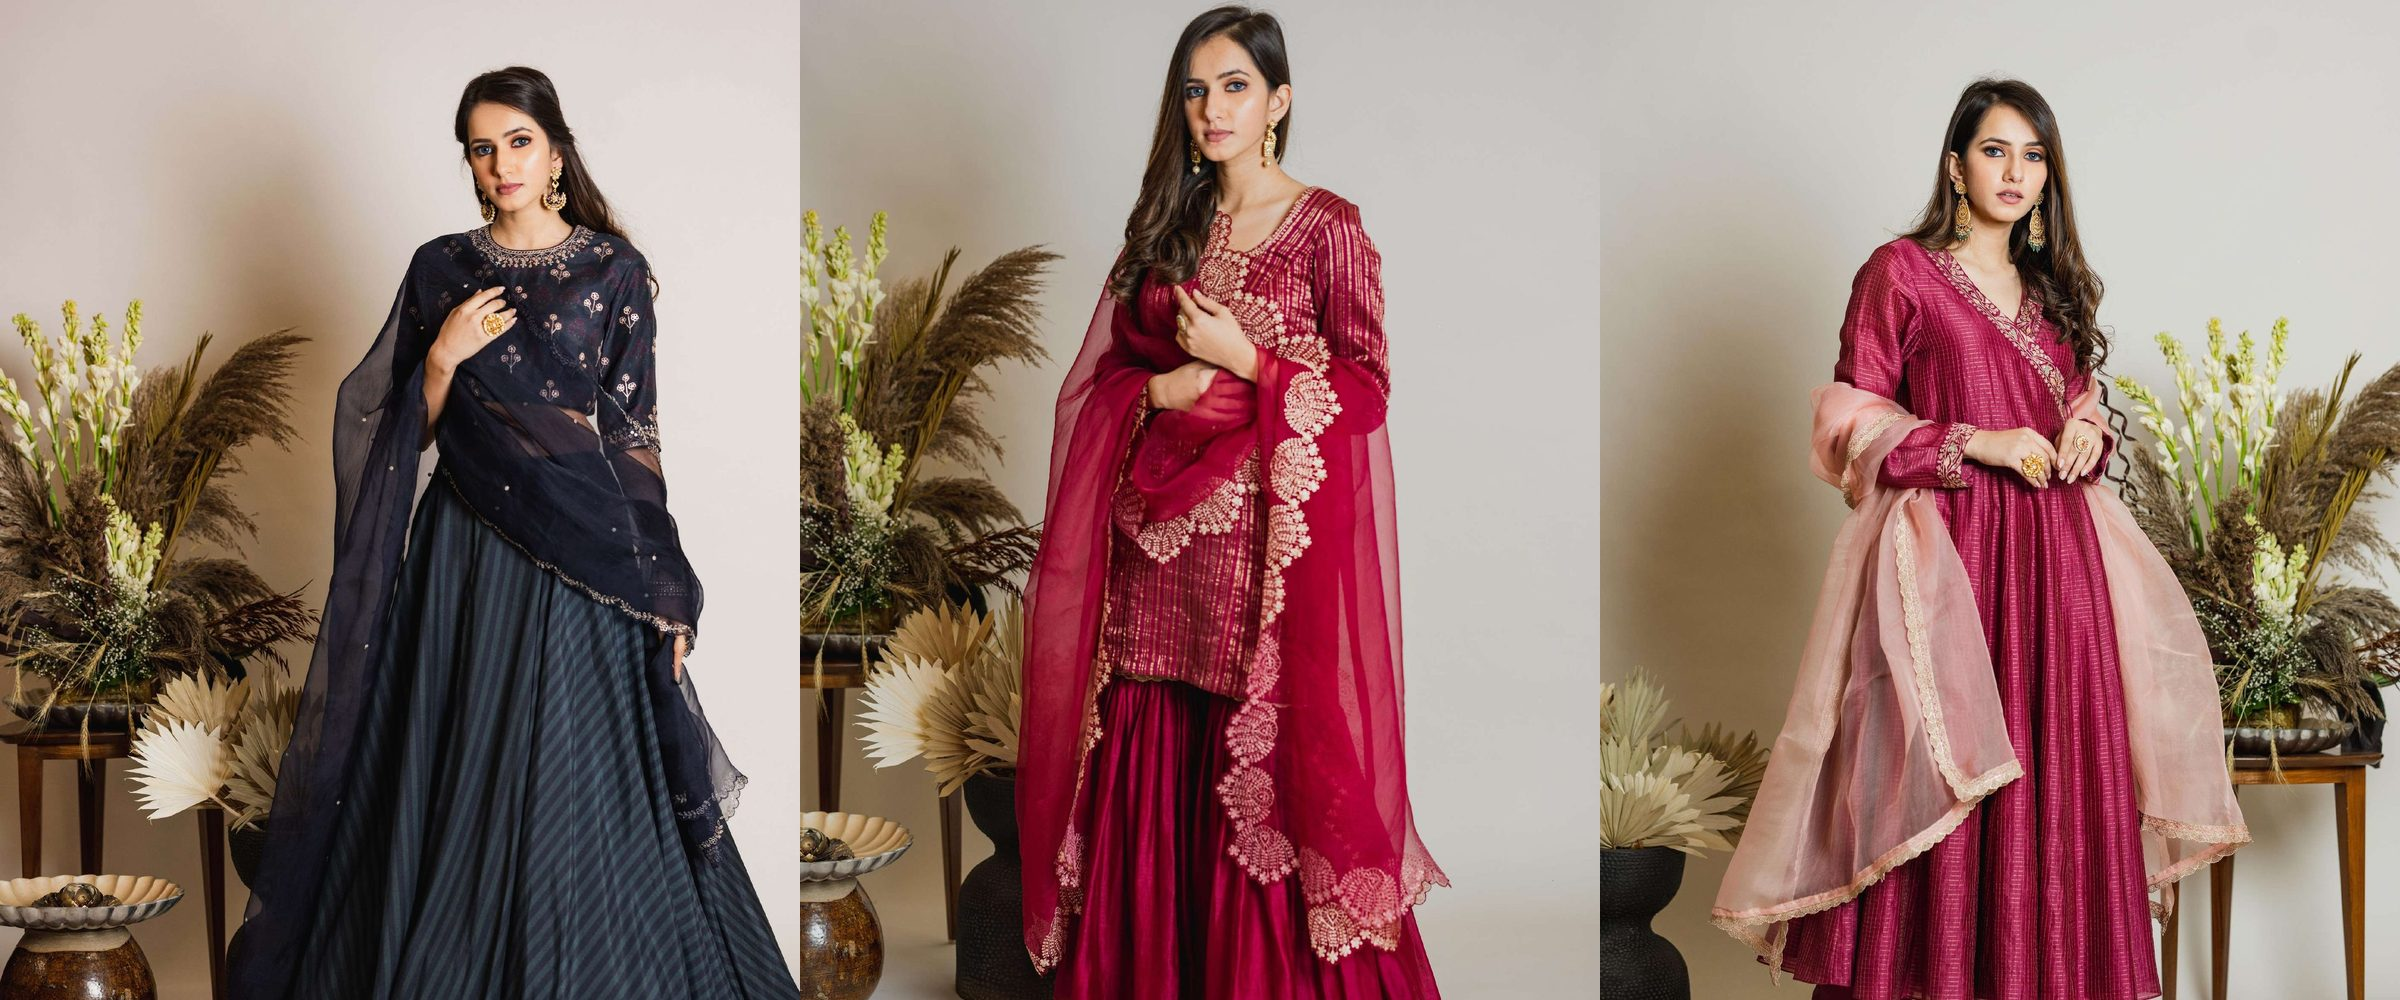
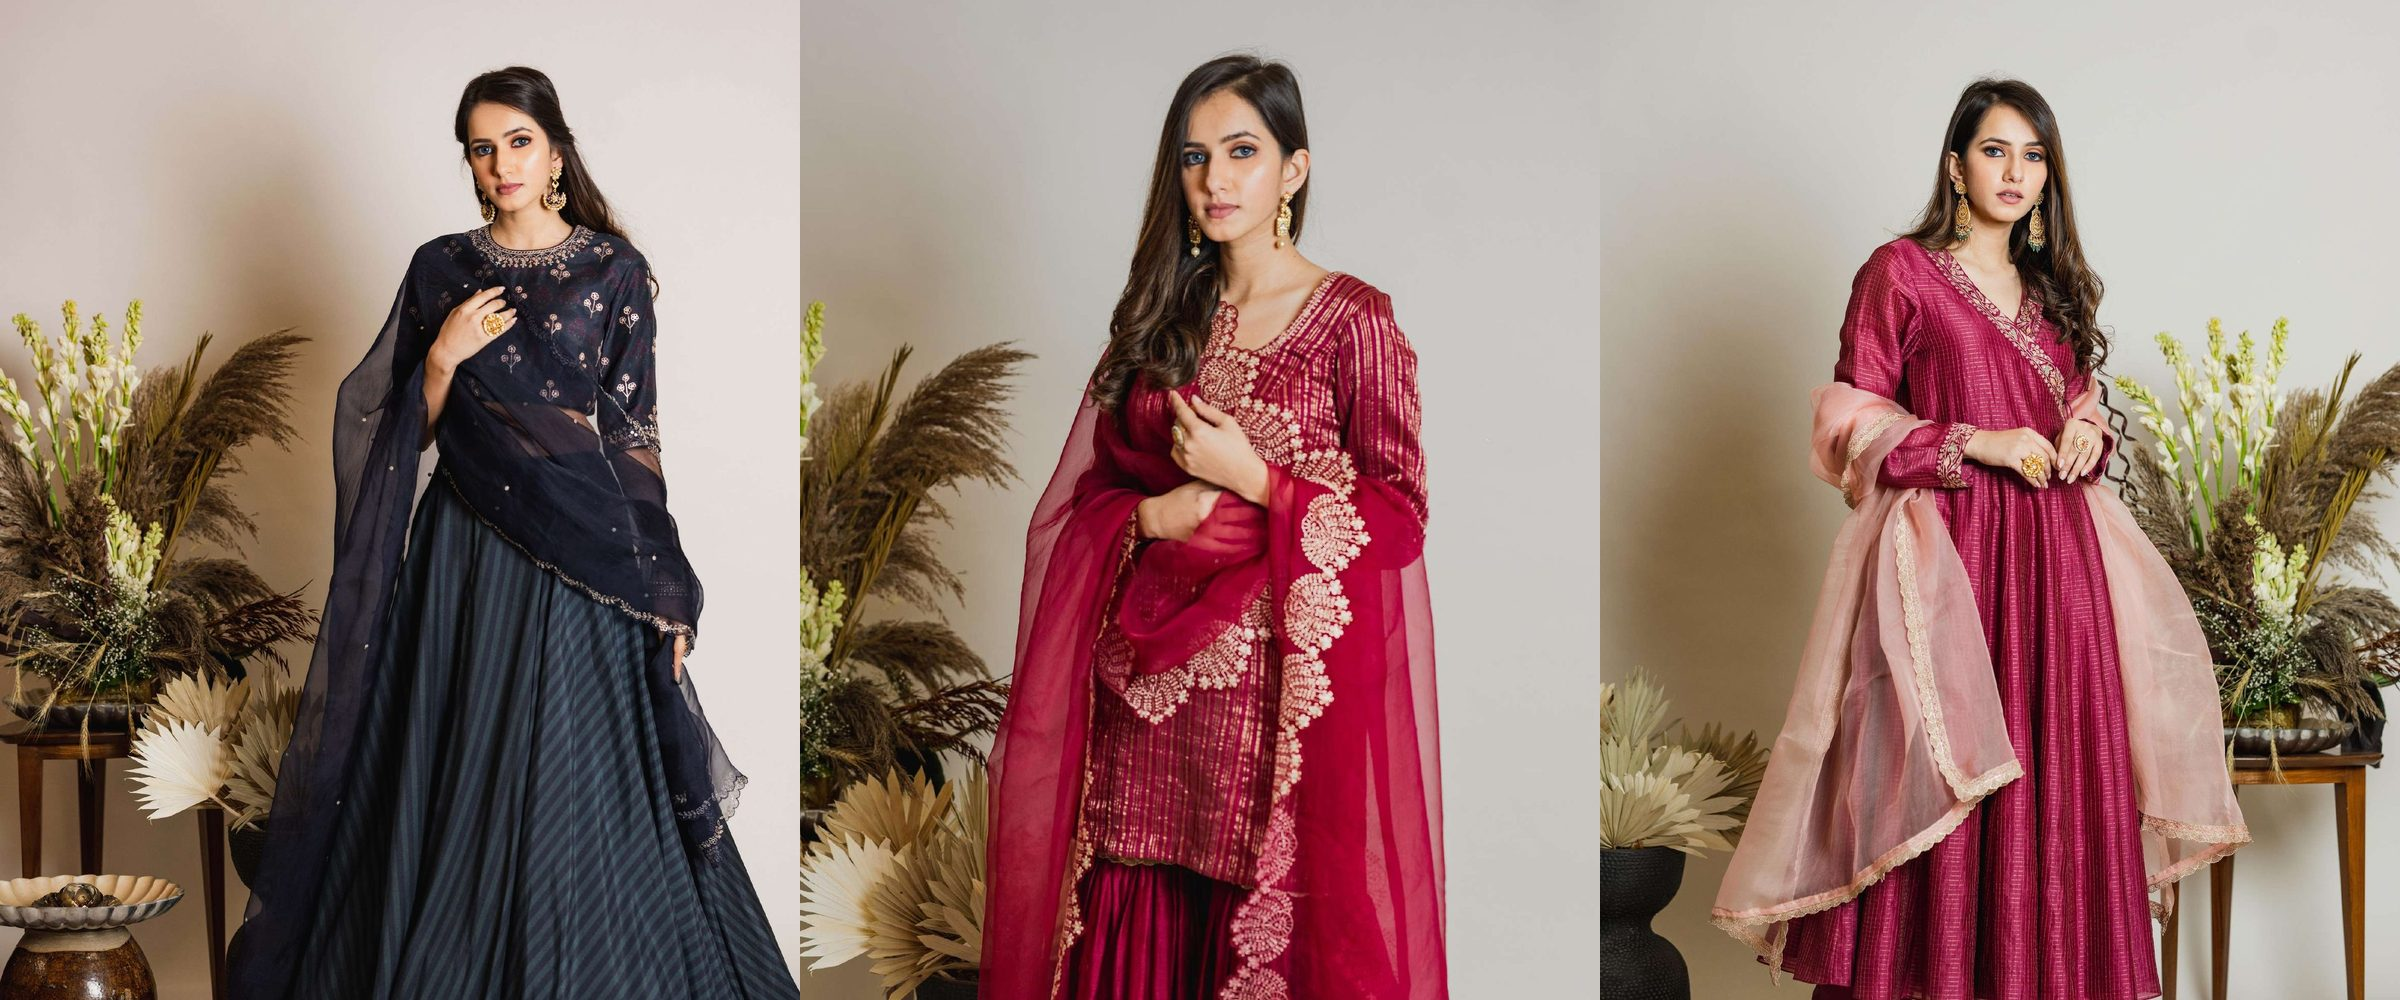
image fix

Changed region(s): [[0.3125, 0.0, 0.6875, 1.0]]

diff --git a/src/components/ui/Icons.tsx b/src/components/ui/Icons.tsx
@@ -45,16 +45,19 @@ export function ArrowDownIcon({ className = "" }: IconProps) {
   );
 }
 
-export function LongArrowRightIcon({ className = "" }: IconProps) {
+/** `bold`: thicker stroke for a hero's button (see .Svg--bold in section-collection-showcase.css). */
+export function LongArrowRightIcon({ className = "", bold = false }: IconProps & { bold?: boolean }) {
   return (
-    <svg className={`Svg Svg--long-arrow-right ${className}`} {...base}>
+    <svg className={`Svg Svg--long-arrow-right ${bold ? "Svg--bold" : ""} ${className}`} {...base}>
       <path
         d="M15 8.89V9.54039H2.32519C2.14559 9.54039 2 9.39479 2 9.21519C2 9.03559 2.14559 8.89 2.3252 8.89H15Z"
         fill="#231F20"
+        strokeWidth={bold ? 0.75 : undefined}
       />
       <path
         d="M15.2295 9L15.46 9.22949L15.2295 9.45898L11.459 13.2295C11.3322 13.3562 11.1267 13.3562 11 13.2295C10.8733 13.1027 10.8733 12.8972 11 12.7705L14.541 9.22949L11 5.68847C10.8733 5.56173 10.8733 5.35623 11 5.22949C11.1267 5.10274 11.3322 5.10274 11.459 5.22949L15.2295 9Z"
         fill="#231F20"
+        strokeWidth={bold ? 0.75 : undefined}
       />
     </svg>
   );

diff --git a/src/data/navigation.ts b/src/data/navigation.ts
@@ -45,10 +45,10 @@ export const navigation: TopMenu[] = [
       link("Offer: Made by Maliha", col("made-by-maliha")),
     ],
     rootCards: [
-      card("Made by Maliha - The Festive Edit", col("festive-edit"), women("nav-festive-edit")),
+      card("Made by Maliha, The Festive Edit", col("festive-edit"), women("nav-festive-edit")),
       card("New Arrivals", col("new-arrivals"), women("nav-new-arrivals")),
     ],
-    mobileRootCards: [card("Made by Maliha - The Festive Edit", col("festive-edit"), women("nav-festive-edit"))],
+    mobileRootCards: [card("Made by Maliha, The Festive Edit", col("festive-edit"), women("nav-festive-edit"))],
     second: [
       {
         key: "women-clothing",

diff --git a/src/app/women/page.tsx b/src/app/women/page.tsx
@@ -34,6 +34,7 @@ export default function WomenPage() {
       <CollectionShowcase
         heading
         priority
+        largeButton
         ratio={{ m: "4/5", d: "24/10" }}
         alignment="middleCenter"
         items={[
@@ -42,7 +43,7 @@ export default function WomenPage() {
             mobileImage: women("hero-mobile"),
             focus: "50% 30%",
             href: "/collections/festive-edit",
-            title: "Made by Maliha - The Festive Edit",
+            title: "Made by Maliha, The Festive Edit",
             button: "SHOP NOW",
           },
         ]}

diff --git a/src/styles/theme/section-collection-showcase.css b/src/styles/theme/section-collection-showcase.css
@@ -6,3 +6,7 @@
 .collection-showcase__button-wrapper--large .ButtonTextContainer,.collection-showcase__button-wrapper--large .ButtonText{height:1.5rem}
 .collection-showcase__button-wrapper--large .button-txt{font-size:1.125rem;line-height:1.5rem}
 .collection-showcase__button-wrapper--large svg{height:1.375rem;width:1.375rem}
+
+/* Bolder arrow icon for a hero's button (see LongArrowRightIcon's `bold` prop).
+   currentColor inherits the button text's colour, whichever variant it is. */
+svg.Svg--bold path{stroke:currentColor}

diff --git a/src/components/CollectionShowcase.tsx b/src/components/CollectionShowcase.tsx
@@ -149,7 +149,7 @@ export function CollectionShowcase({
                         <div className="ButtonTextContainer">
                           <span className="ButtonText ">
                             <span className="button-txt u-pb1">{item.button}</span>
-                            <LongArrowRightIcon />
+                            <LongArrowRightIcon bold={priority} />
                           </span>
                         </div>
                       </Link>

diff --git a/src/app/lookbook/page.tsx b/src/app/lookbook/page.tsx
@@ -32,6 +32,7 @@ export default function LookbookPage() {
       <CollectionShowcase
         heading
         priority
+        largeButton
         ratio={{ m: "4/5", d: "24/10" }}
         alignment="middleCenter"
         items={[

diff --git a/scripts/prepare-assets.py b/scripts/prepare-assets.py
@@ -87,24 +87,37 @@ def save_logo(fallback: Image.Image) -> None:
     img.crop((max(0, left - pad), max(0, top - pad), right + pad, bottom + pad)).save(PUBLIC / "logo-maliha.png", optimize=True)
 
 
-def cover(img: Image.Image, w: int, h: int, focus_y: float = 0.5) -> Image.Image:
-    """Resize + crop to exactly w×h (like CSS object-fit: cover)."""
-    scale = max(w / img.width, h / img.height)
+def cover(img: Image.Image, w: int, h: int, focus_y: float = 0.5, zoom: float = 1.0) -> Image.Image:
+    """Resize + crop to exactly w×h (like CSS object-fit: cover). `zoom` scales
+    beyond the minimum cover-fit, so `focus_y` has room to crop in tighter at
+    the top/bottom than the photo's own edges allow at zoom=1."""
+    scale = max(w / img.width, h / img.height) * zoom
     resized = img.resize((round(img.width * scale), round(img.height * scale)), Image.LANCZOS)
     left = (resized.width - w) // 2
     top = round((resized.height - h) * focus_y)
     return resized.crop((left, top, left + w, top + h))
 
 
-def triptych(paths: list[Path], w: int, h: int, focus_y: float, trim_left: list[float] | None = None) -> Image.Image:
-    """Photos side by side; `trim_left` drops a coloured border strip per photo first."""
+def triptych(
+    paths: list[Path],
+    w: int,
+    h: int,
+    focus_y: float | list[float],
+    trim_left: list[float] | None = None,
+    zoom: float | list[float] = 1.0,
+) -> Image.Image:
+    """Photos side by side; `trim_left` drops a coloured border strip per photo
+    first. `focus_y`/`zoom` are shared across all photos, or given per photo as
+    a list."""
     panel = w // len(paths)
     out = Image.new("RGB", (w, h))
     for i, p in enumerate(paths):
         img = Image.open(p).convert("RGB")
         dx = round(img.width * (trim_left[i] if trim_left else 0))
         img = img.crop((dx, 0, img.width - round(img.width * 0.04 if trim_left else 0), img.height))
-        out.paste(cover(img, panel, h, focus_y), (i * panel, 0))
+        fy = focus_y[i] if isinstance(focus_y, list) else focus_y
+        z = zoom[i] if isinstance(zoom, list) else zoom
+        out.paste(cover(img, panel, h, fy, zoom=z), (i * panel, 0))
     return out
 
 # Supplied art for the Women page ("<source name>": "<public name>"), from
@@ -280,7 +293,17 @@ def main() -> None:
 
     # Wide banners at the exact desktop ratios (24/10 and 10/4).
     save(triptych([LOOKBOOK / "look-10.jpg", LOOKBOOK / "look-22.jpg", LOOKBOOK / "look-23.jpg"], 2400, 960, 0.22), MALIHA / "banner-atelier.jpg", max_w=2400)
-    save(triptych([LOOKBOOK / "look-05.jpg", LOOKBOOK / "look-29.jpg", LOOKBOOK / "look-30.jpg"], 2400, 1000, 0.2), MALIHA / "banner-lookbook.jpg", max_w=2400)
+    save(
+        triptych(
+            [LOOKBOOK / "look-05.jpg", LOOKBOOK / "look-29.jpg", LOOKBOOK / "look-30.jpg"],
+            2400,
+            1000,
+            [0.2, 0.0, 0.2],
+            zoom=[1.0, 1.2, 1.0],
+        ),
+        MALIHA / "banner-lookbook.jpg",
+        max_w=2400,
+    )
 
     save_variants()
     save_women()
